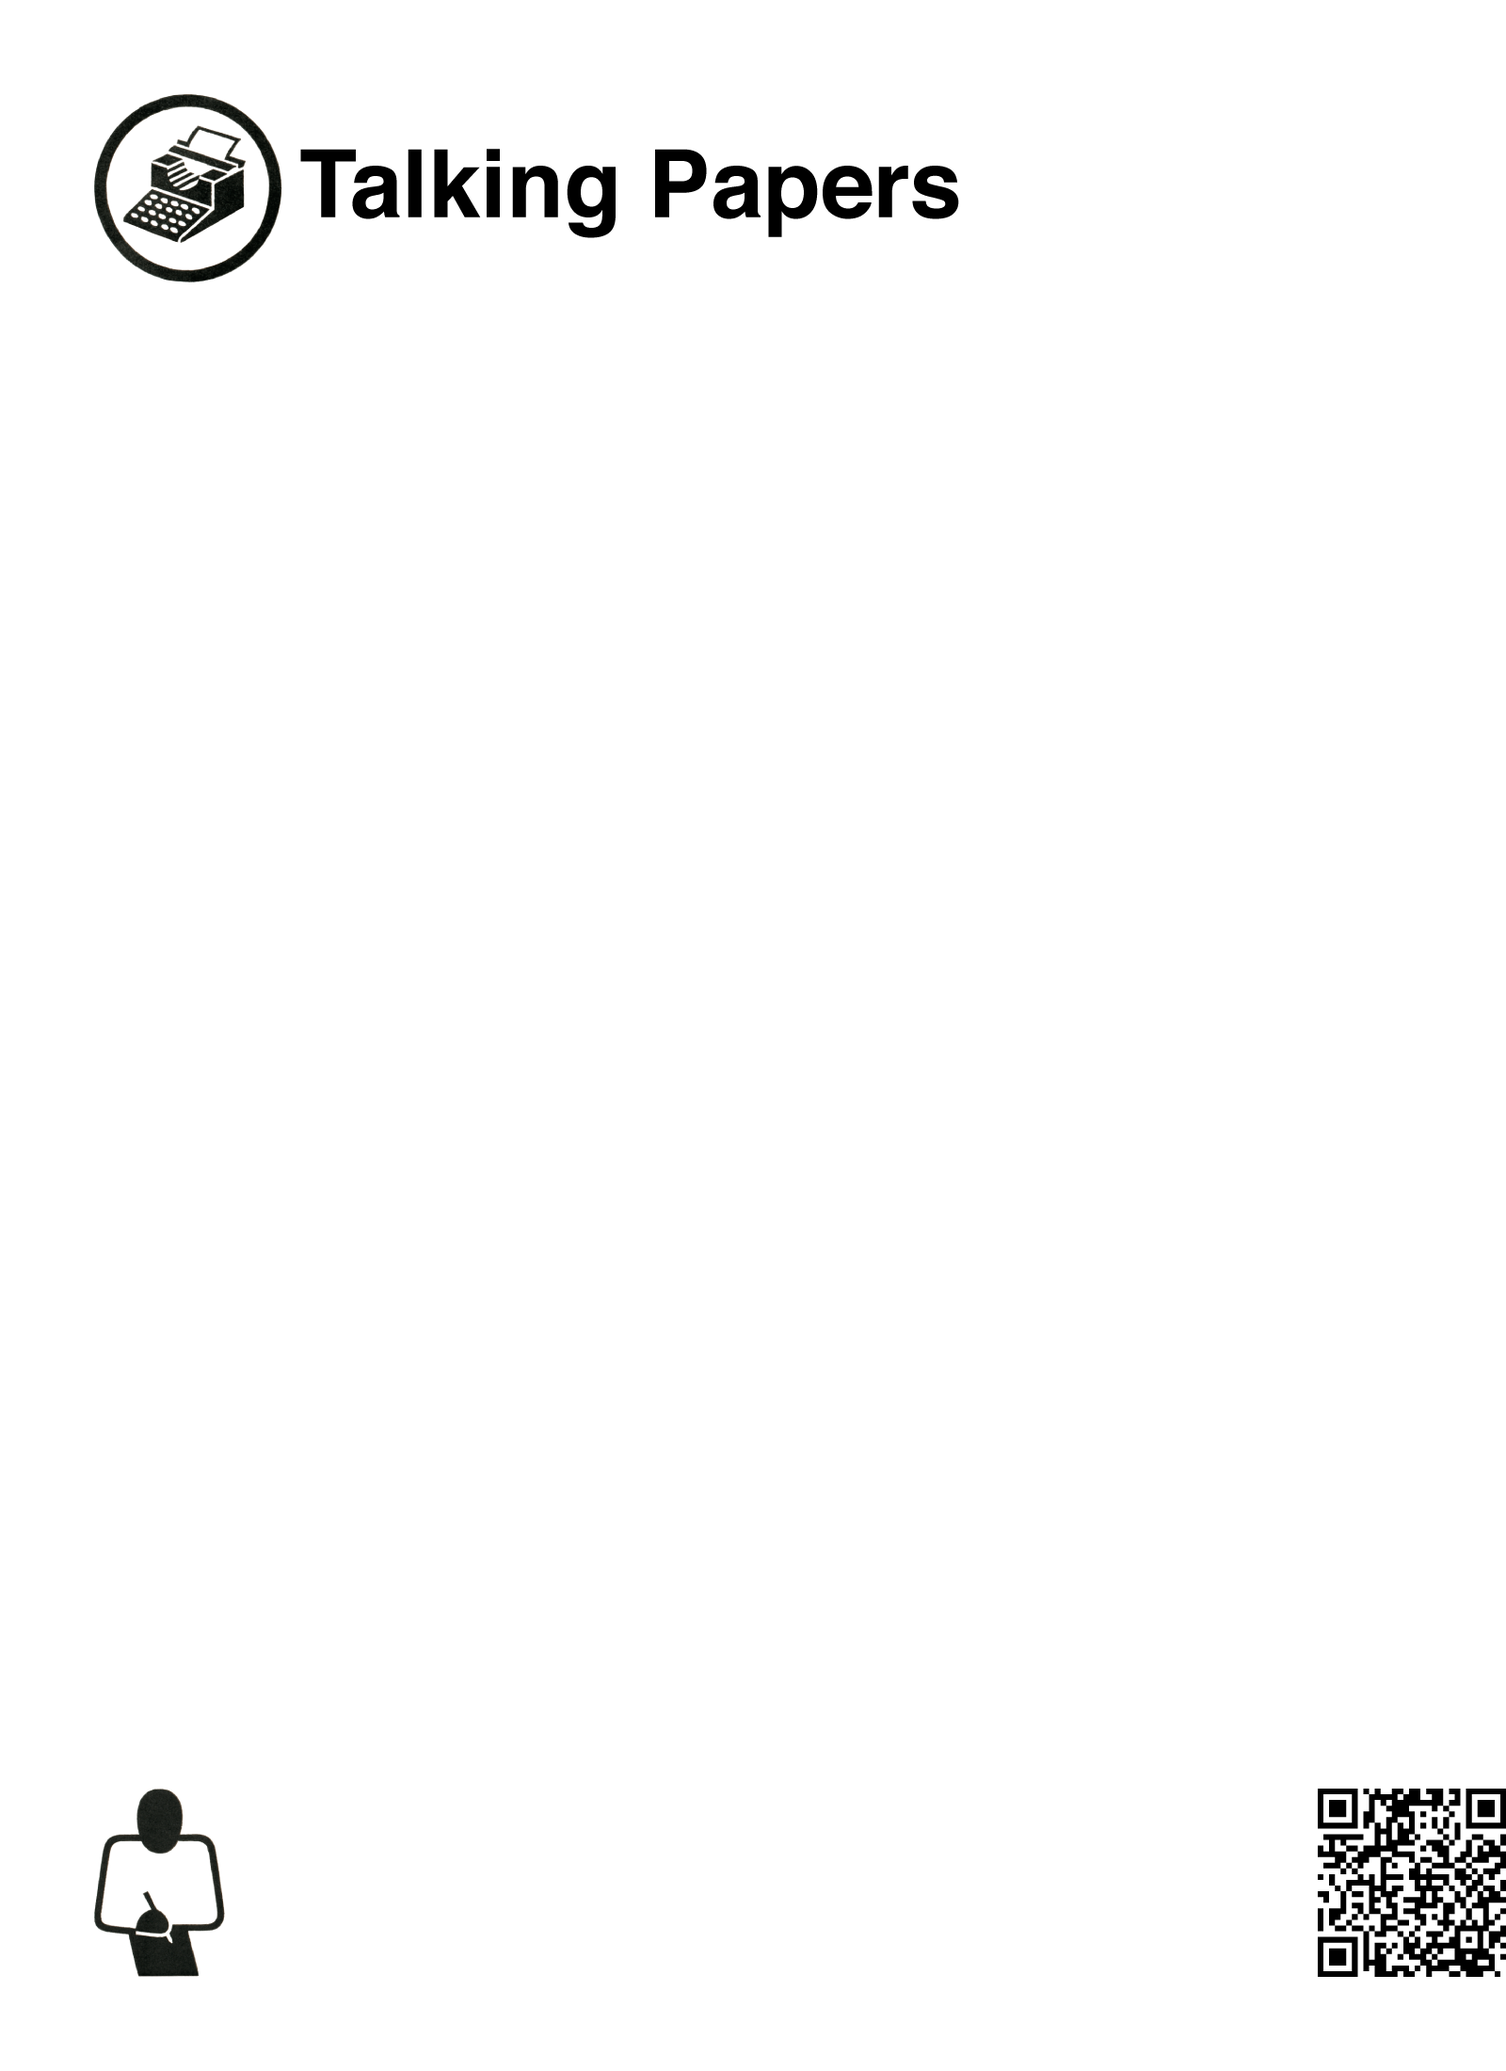
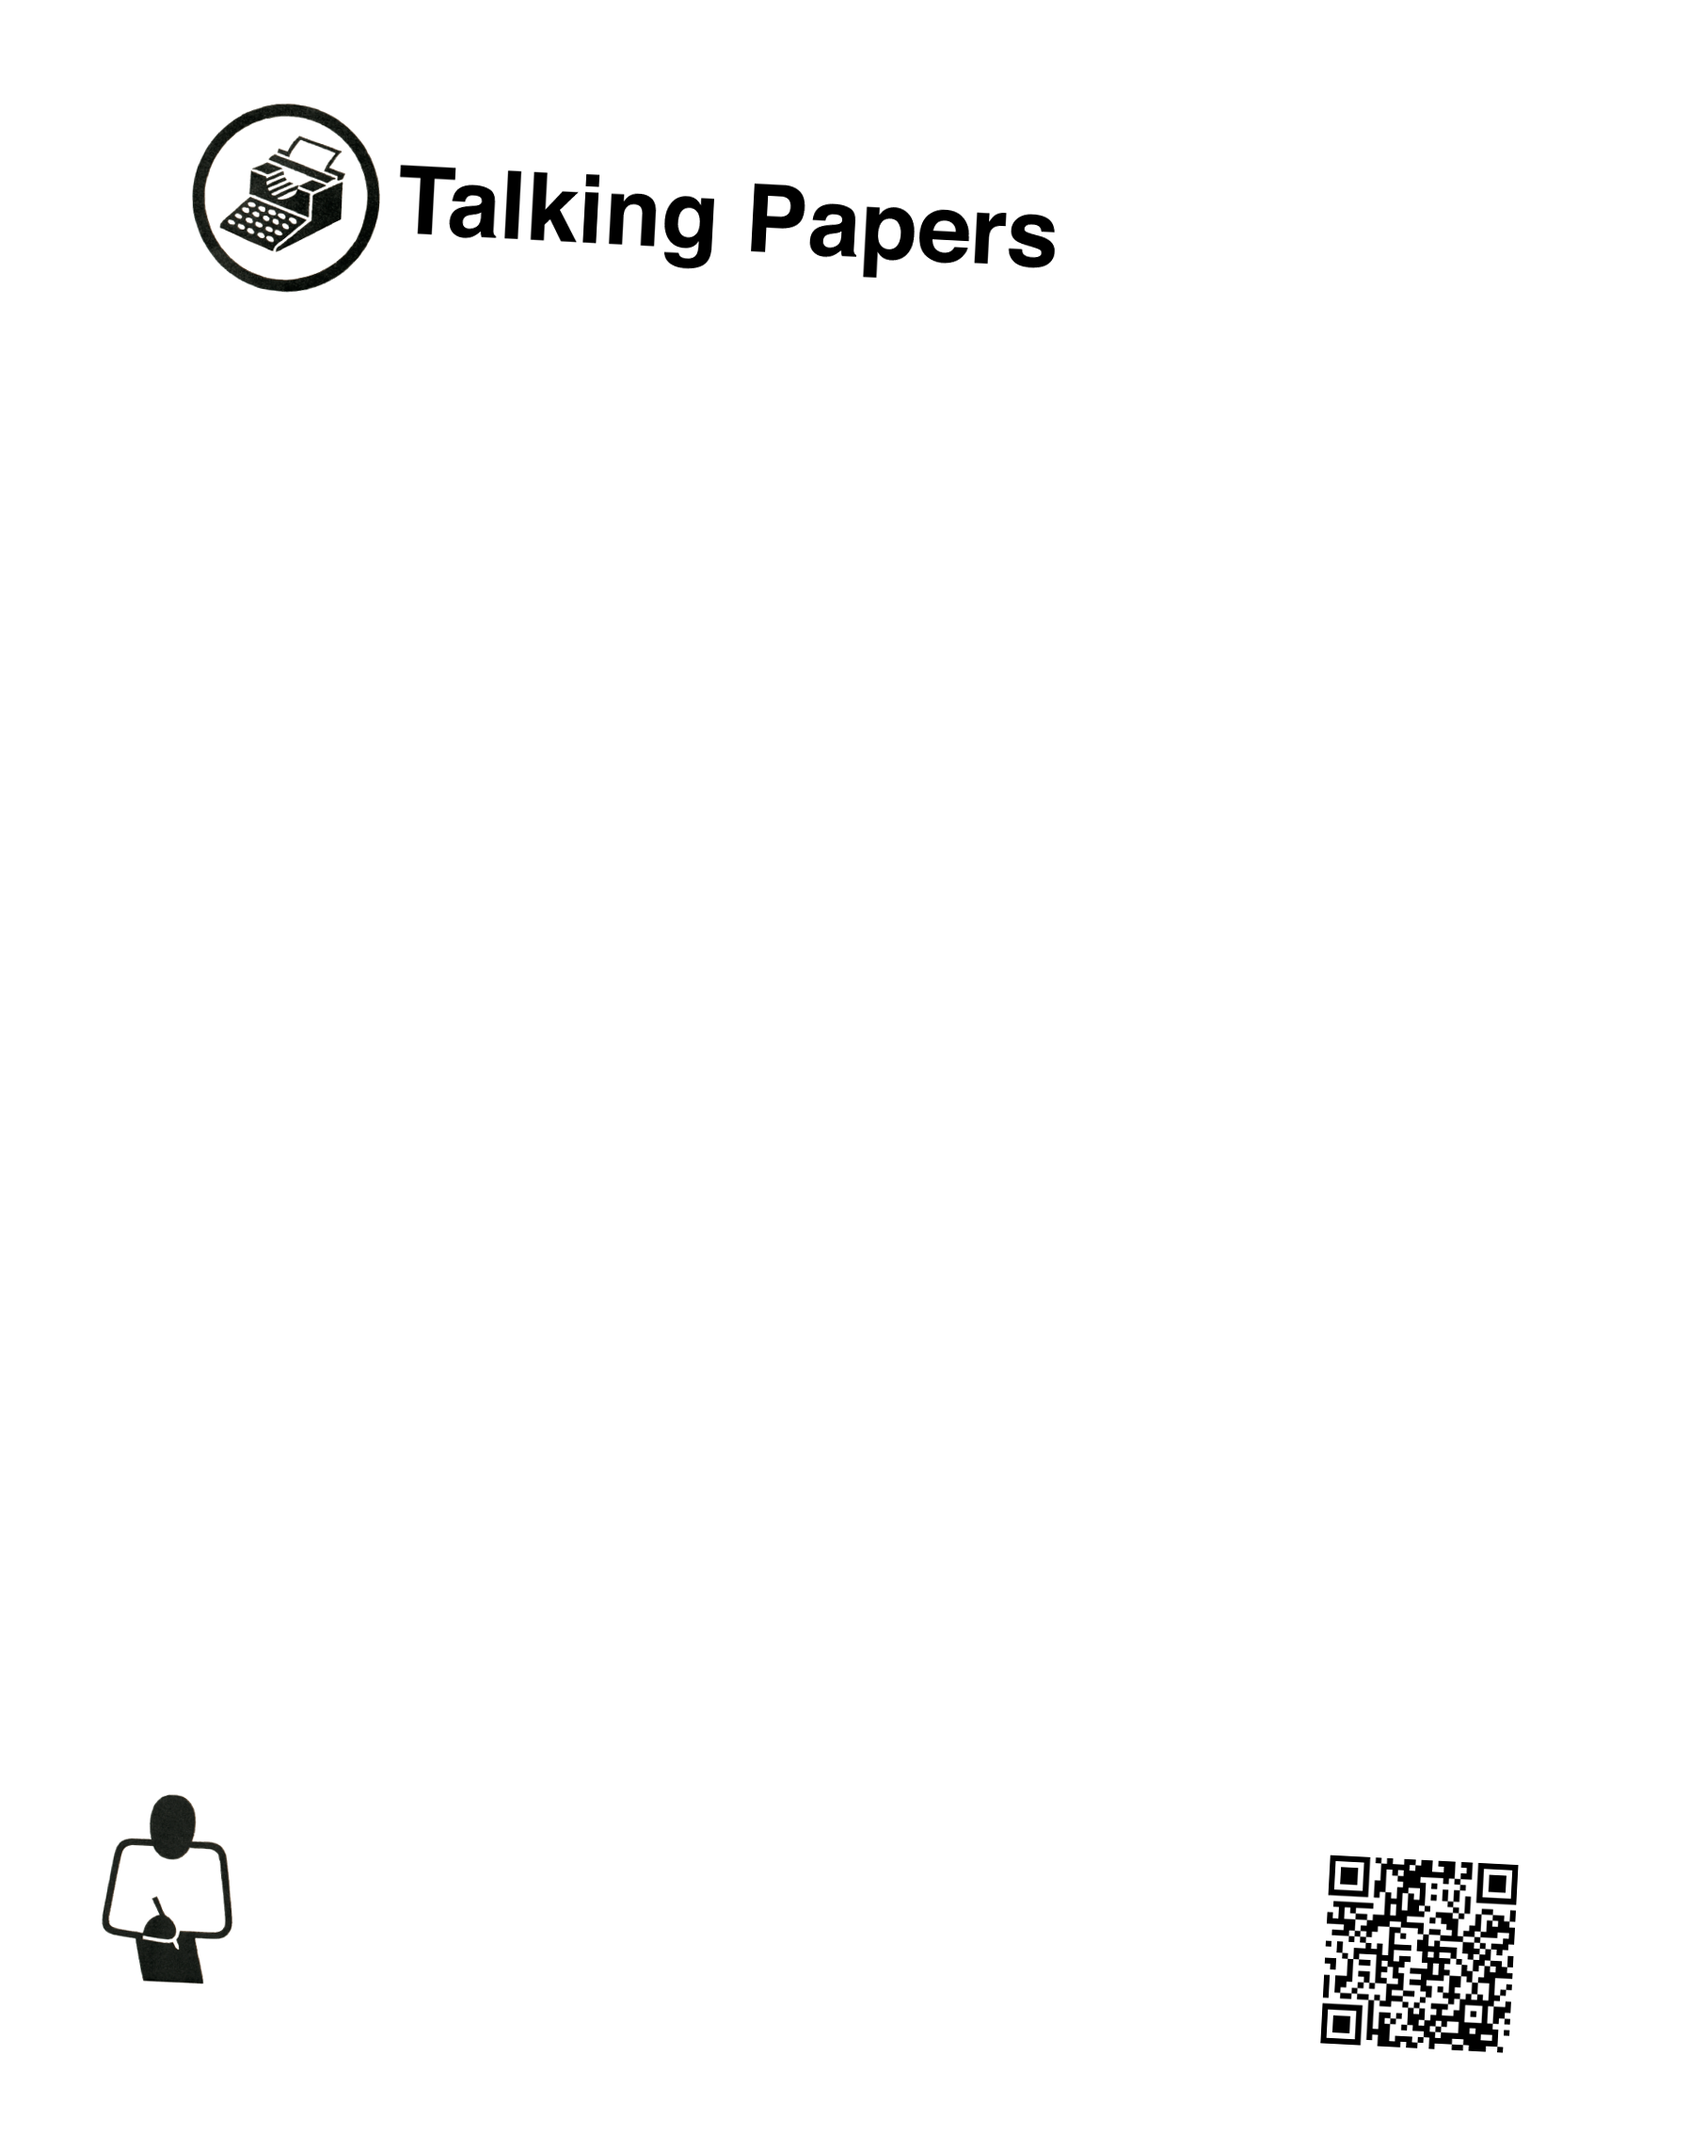
Extracting just the QR code successfully from a rotated image

Changed region(s): [[0.0625, 0.0309, 0.6562, 0.1545], [0.75, 0.8655, 1.0, 0.9582], [0.0625, 0.8345, 0.1562, 0.9582]]

diff --git a/read/decode.py b/read/decode.py
@@ -27,6 +27,37 @@ class Point:
         self.x = x
         self.y = y
 
+class Affine:
+    def __init__(self, a=1, b=0, c=0, d=0, e=1, f=0):
+        self.a = float(a)
+        self.b = float(b)
+        self.c = float(c)
+        self.d = float(d)
+        self.e = float(e)
+        self.f = float(f)
+
+    def __str__(self):
+        return str(((self.a, self.b, self.c), (self.d, self.e, self.f)))
+
+    def __repr__(self):
+        return str(self)
+
+    def project(self, x, y):
+        return self.a * x + self.b * y + self.c, self.d * x + self.e * y + self.f
+
+    def multiply(self, o):
+        return Affine(self.a * o.a + self.d * o.b, self.b * o.a + self.e * o.b, self.c * o.a + self.f * o.b + o.c,
+                      self.a * o.d + self.d * o.e, self.b * o.d + self.e * o.e, self.c * o.d + self.f * o.e + o.f)
+
+    def translate(self, dx, dy):
+        return self.multiply(Affine(1, 0, dx, 0, 1, dy))
+
+    def scale(self, sx, sy):
+        return self.multiply(Affine(sx, 0, 0, 0, sy, 0))
+
+    def rotate(self, theta):
+        return self.multiply(Affine(math.cos(theta), -math.sin(theta), 0, math.sin(theta), math.cos(theta), 0))
+
 class Marker:
     def __init__(self, basepath):
         data = open(basepath + '.sift', 'r')
@@ -72,12 +103,10 @@ def main(url, markers):
     
             marker.anchor = Point(x, y)
         
-        return 0
-        
-        # reading QR code
-        updateStepLocal(4, 10)
-        
         qrcode = extractCode(image, markers)
+        qrcode.save('qrcode.jpg', 'JPEG')
+        
+        return 0
 
         qrcode_name = 'qrcode.jpg'
         qrcode_bytes = StringIO.StringIO()
@@ -163,7 +192,7 @@ def main(url, markers):
 
     except:
         # an error
-        updateStepLocal(99, 90)
+        #updateStepLocal(99, 90)
 
         raise
 
@@ -495,43 +524,28 @@ def linearSolution(r1, s1, t1, r2, s2, t2, r3, s3, t3):
 def extractCode(image, markers):
     """
     """
-    # transformation from ideal space to printed image space.
-    # markers are positioned with Header at upper left, Hand at upper right, and CCBYSA at lower left
+    top = markers['GMDH02_00364']
+    bottom = markers['GMDH02_00647']
     
-    distance_across = math.hypot(markers['Hand'].anchor.x - markers['Header'].anchor.x, markers['Hand'].anchor.y - markers['Header'].anchor.y)
-    distance_down = math.hypot(markers['CCBYSA'].anchor.x - markers['Header'].anchor.x, markers['CCBYSA'].anchor.y - markers['Header'].anchor.y)
-    aspect = distance_across / distance_down
-    orientation = aspect > 1 and 'landscape' or 'portrait'
+    theta = math.asin(float(bottom.anchor.x - top.anchor.x) / float(bottom.anchor.y - top.anchor.y)) * -1
+    scale = math.hypot(bottom.anchor.x - top.anchor.x, bottom.anchor.y - top.anchor.y) / (756 - 36)
     
-    print >> sys.stderr, 'aspect', aspect, 'orientation', orientation
+    # a transformation matrix from print space (points) to scan space (pixels)
+    matrix = Affine().translate(-36, -36).scale(scale, scale).rotate(theta).translate(top.anchor.x, top.anchor.y)
     
-    right = orientation == 'portrait' and 540 or 720
-    bottom = orientation == 'portrait' and 720 or 540
-    
-    ax, bx, cx = linearSolution(0,      0, markers['Header'].anchor.x,
-                                right,  0, markers['Hand'].anchor.x,
-                                0, bottom, markers['CCBYSA'].anchor.x)
-    
-    ay, by, cy = linearSolution(0,      0, markers['Header'].anchor.y,
-                                right,  0, markers['Hand'].anchor.y,
-                                0, bottom, markers['CCBYSA'].anchor.y)
-    
-    # candidate location of the QR code on the printed image:
-    # top-left, top-right, bottom-left corner of QR code.
-    xys = [(right - 63, bottom - 63), (right, bottom - 63), (right - 63, bottom)]
-
-    corners = [Point(ax * x + bx * y + cx, ay * x + by * y + cy)
-               for (x, y) in xys]
+    top_left = matrix.project(504, 684)
+    top_right = matrix.project(576, 684)
+    bottom_left = matrix.project(504, 756)
 
     # projection from extracted QR code image space to source image space
     
-    ax, bx, cx = linearSolution(50,  50, corners[0].x,
-                                450, 50, corners[1].x,
-                                50, 450, corners[2].x)
+    ax, bx, cx = linearSolution(50,  50, top_left[0],
+                                450, 50, top_right[0],
+                                50, 450, bottom_left[0])
     
-    ay, by, cy = linearSolution(50,  50, corners[0].y,
-                                450, 50, corners[1].y,
-                                50, 450, corners[2].y)
+    ay, by, cy = linearSolution(50,  50, top_left[1],
+                                450, 50, top_right[1],
+                                50, 450, bottom_left[1])
 
     # extract the code part
     justcode = image.convert('RGBA').transform((500, 500), PIL.Image.AFFINE, (ax, bx, cx, ay, by, cy), PIL.Image.BICUBIC)
@@ -539,6 +553,8 @@ def extractCode(image, markers):
     # paste it to an output image
     qrcode = PIL.Image.new('RGB', justcode.size, (0xCC, 0xCC, 0xCC))
     qrcode.paste(justcode, (0, 0), justcode)
+    
+    return qrcode
     
     # raise contrast
     lut = [0x00] * 112 + [0xFF] * 144 # [0x00] * 112 + range(0x00, 0xFF, 8) + [0xFF] * 112
